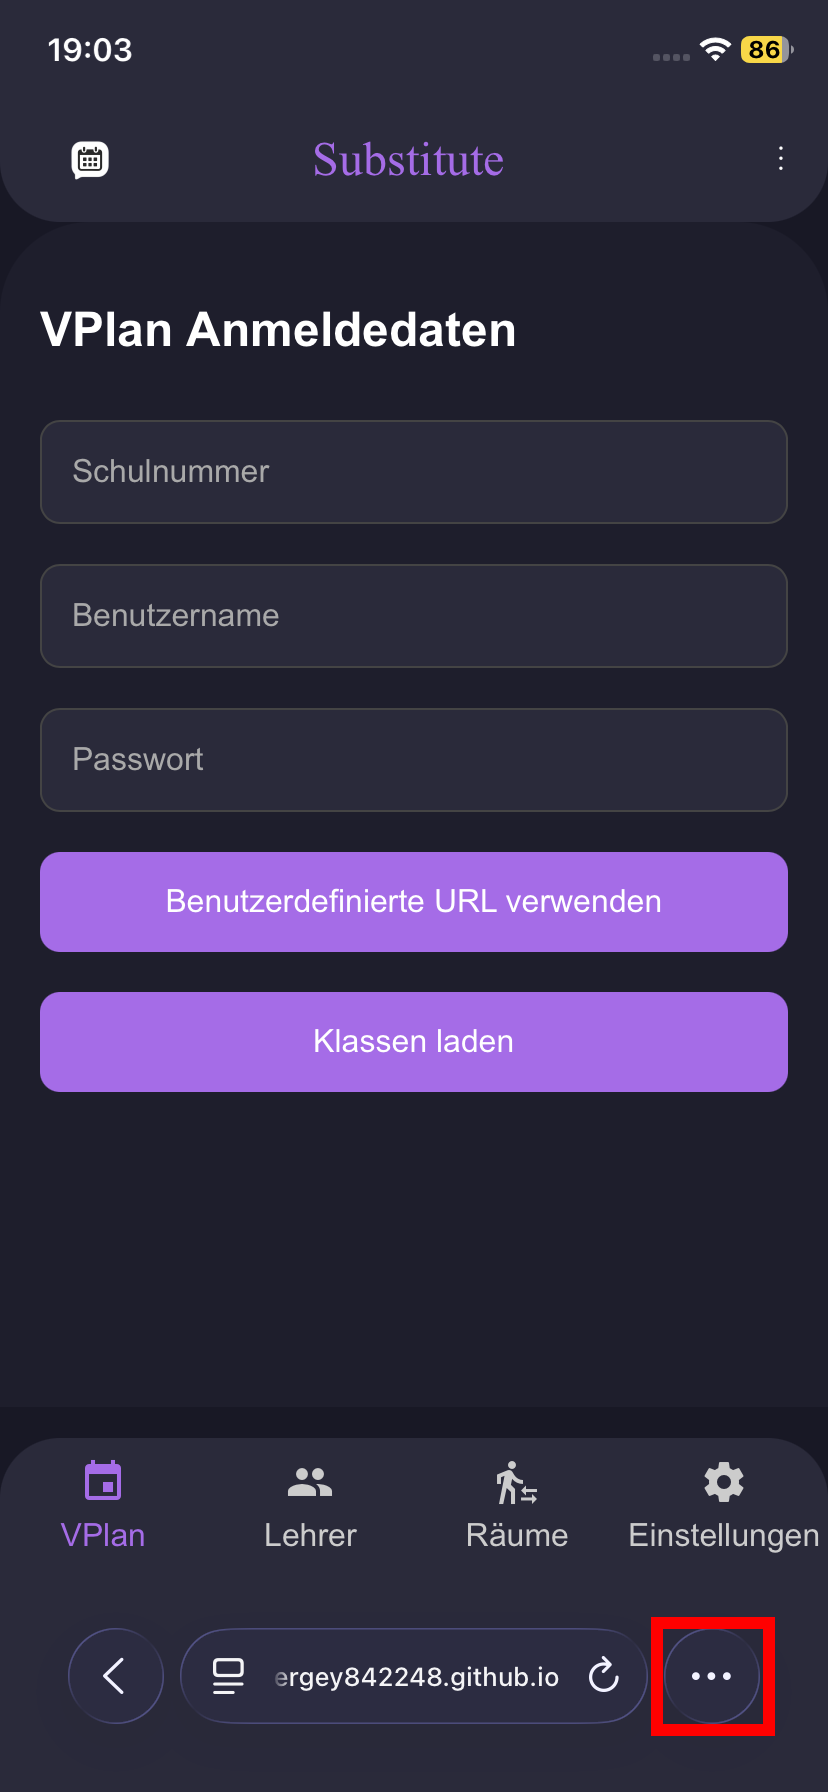
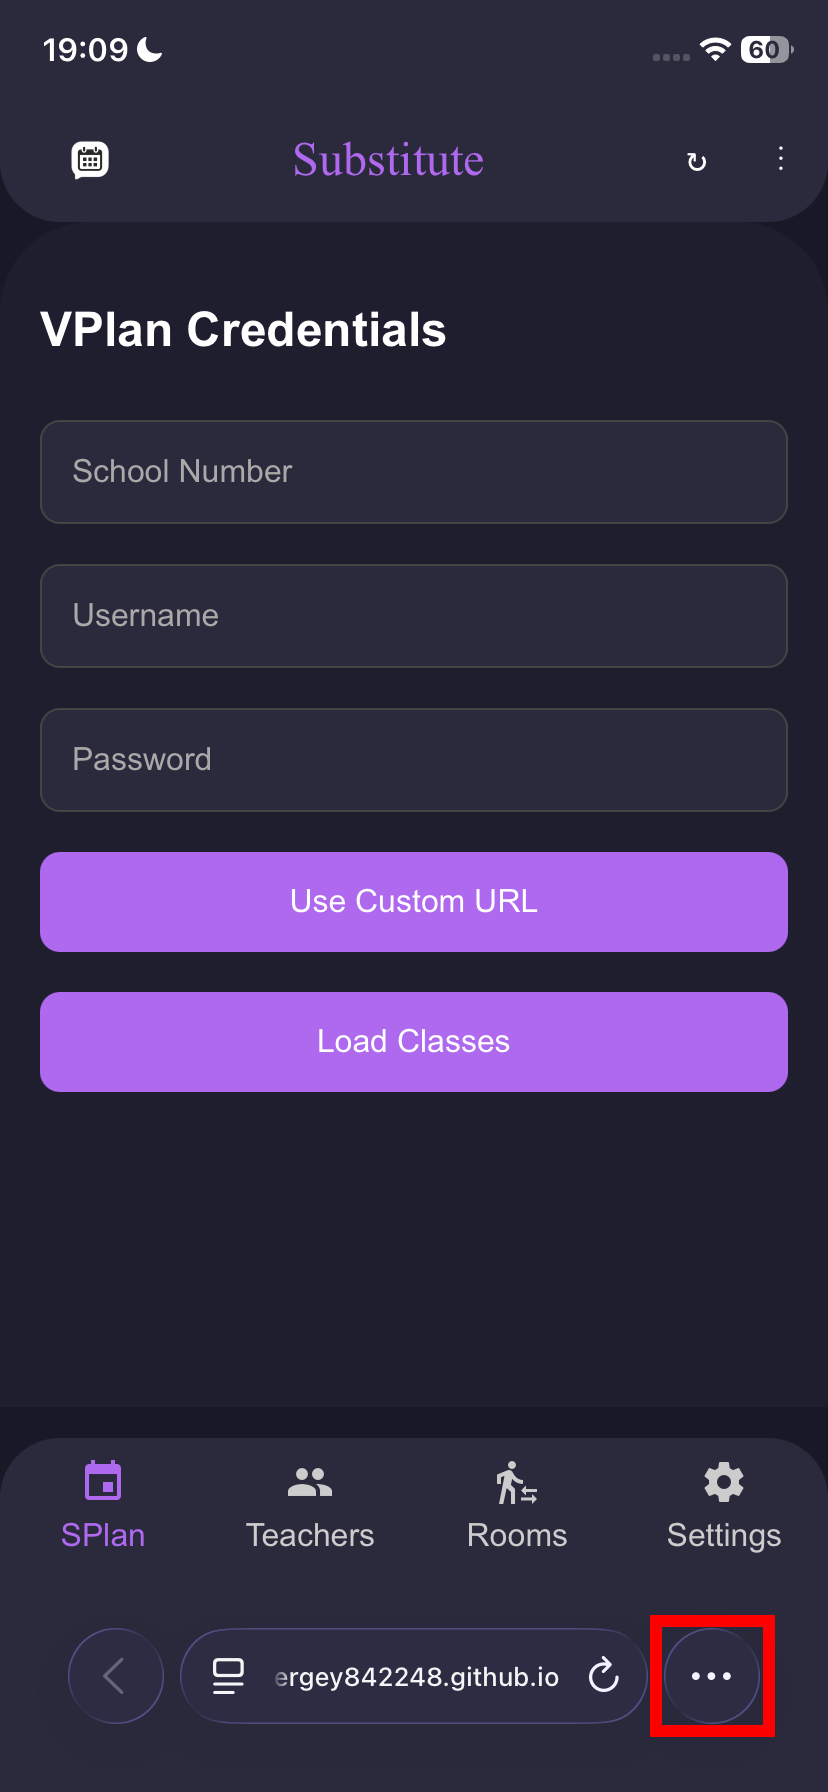
GITBOOK-20: Replace iOS tutorial pictures

diff --git a/de/installation/ios.md b/de/installation/ios.md
@@ -16,7 +16,7 @@ icon: apple
 
 Stil 1:
 
-<div align="left"><figure><img src="../../.gitbook/assets/Pre-Share1.png" alt="" width="188"><figcaption><p>Klicke auf das 3-Punkte symbol</p></figcaption></figure> <figure><img src="../../.gitbook/assets/Share1.png" alt="" width="188"><figcaption><p>Öffne das "Teilen"-Menü</p></figcaption></figure></div>
+<div align="left"><figure><img src="../../.gitbook/assets/Pre-Share1.png" alt="" width="188"><figcaption><p>Klicke auf das 3-Punkte symbol</p></figcaption></figure> <figure><img src="../../.gitbook/assets/Share1_de.png" alt="" width="188"><figcaption><p>Öffne das "Teilen"-Menü</p></figcaption></figure></div>
 
 Stil 2:
 
@@ -30,24 +30,24 @@ Stil 3:
 {% step %}
 ### Klicke im "Teilen"-Menü auf "Mehr"
 
-<div align="left"><figure><img src="../../.gitbook/assets/Share-Menu.png" alt="" width="188"><figcaption></figcaption></figure></div>
+<div align="left"><figure><img src="../../.gitbook/assets/Share-Menu_de.png" alt="" width="188"><figcaption></figcaption></figure></div>
 {% endstep %}
 
 {% step %}
-### Klicke im Menü auf "Zum Startbildschirm hinzufügen"
+### Klicke im Menü auf "Zum Home-Bildschrim"
 
-<div align="left"><figure><img src="../../.gitbook/assets/Advanced-Share-Menu.png" alt="" width="188"><figcaption></figcaption></figure></div>
+<div align="left"><figure><img src="../../.gitbook/assets/Advnaced-Share-Menu_de.png" alt="" width="188"><figcaption></figcaption></figure></div>
 {% endstep %}
 
 {% step %}
-### Stelle sicher, dass der Schalter "Web App" aktiviert ist
+### Stelle sicher, dass der Schalter "Als Web App öffnen" aktiviert ist
 
-<div align="left"><figure><img src="../../.gitbook/assets/Web-App.png" alt="" width="188"><figcaption></figcaption></figure></div>
+<div align="left"><figure><img src="../../.gitbook/assets/Web-App_de.png" alt="" width="188"><figcaption></figcaption></figure></div>
 {% endstep %}
 
 {% step %}
 ### Klicke oben rechts auf "Hinzufügen"
 
-<div align="left"><figure><img src="../../.gitbook/assets/Add-Home.png" alt="" width="188"><figcaption></figcaption></figure></div>
+<div align="left"><figure><img src="../../.gitbook/assets/Add_de.png" alt="" width="188"><figcaption></figcaption></figure></div>
 {% endstep %}
 {% endstepper %}

diff --git a/en/installation/ios.md b/en/installation/ios.md
@@ -16,7 +16,7 @@ Open Safari and navigate to Substitute [https://sergey842248.github.io/Substitut
 
 Style 1:
 
-<div align="left"><figure><img src="../../.gitbook/assets/Pre-Share1.png" alt="" width="188"><figcaption><p> Select the 3 dot Menu</p></figcaption></figure> <figure><img src="../../.gitbook/assets/Share1.png" alt="" width="188"><figcaption><p>Open the Share Menu</p></figcaption></figure></div>
+<div align="left"><figure><img src="../../.gitbook/assets/Pre-Share1.png" alt="" width="188"><figcaption><p> Select the 3 dot Menu</p></figcaption></figure> <figure><img src="../../.gitbook/assets/Share1_en.png" alt="" width="188"><figcaption><p>Open the Share Menu</p></figcaption></figure></div>
 
 Style 2:
 
@@ -30,24 +30,24 @@ Style 3:
 {% step %}
 ### Click on "More" in the Share Menu
 
-<div align="left"><figure><img src="../../.gitbook/assets/Share-Menu.png" alt="" width="188"><figcaption></figcaption></figure></div>
+<div align="left"><figure><img src="../../.gitbook/assets/Share-Menu_en.png" alt="" width="188"><figcaption></figcaption></figure></div>
 {% endstep %}
 
 {% step %}
 ### Click "Add to Home Screen" in Menu
 
-<div align="left"><figure><img src="../../.gitbook/assets/Advanced-Share-Menu.png" alt="" width="188"><figcaption></figcaption></figure></div>
+<div align="left"><figure><img src="../../.gitbook/assets/Advanced-Share-Menu_en.png" alt="" width="188"><figcaption></figcaption></figure></div>
 {% endstep %}
 
 {% step %}
-### Ensure the Toggle "Web App" is enabled
+### Ensure the Toggle "Open as Web App" is enabled
 
-<div align="left"><figure><img src="../../.gitbook/assets/Web-App.png" alt="" width="188"><figcaption></figcaption></figure></div>
+<div align="left"><figure><img src="../../.gitbook/assets/Web-App_en.png" alt="" width="188"><figcaption></figcaption></figure></div>
 {% endstep %}
 
 {% step %}
 ### Click "Add" at the top right
 
-<div align="left"><figure><img src="../../.gitbook/assets/Add-Home.png" alt="" width="188"><figcaption></figcaption></figure></div>
+<div align="left"><figure><img src="../../.gitbook/assets/Add_en.png" alt="" width="188"><figcaption></figcaption></figure></div>
 {% endstep %}
 {% endstepper %}
